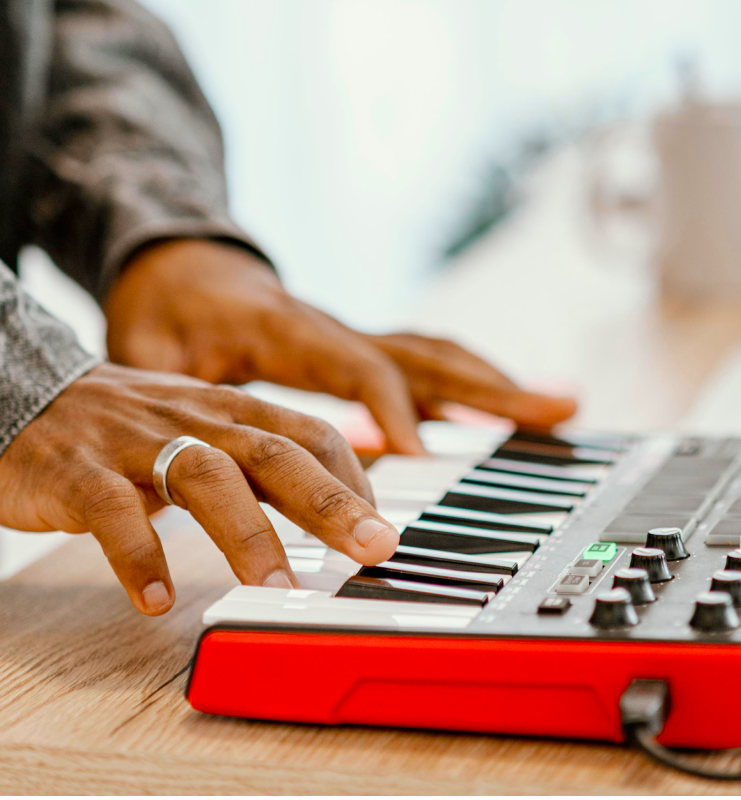
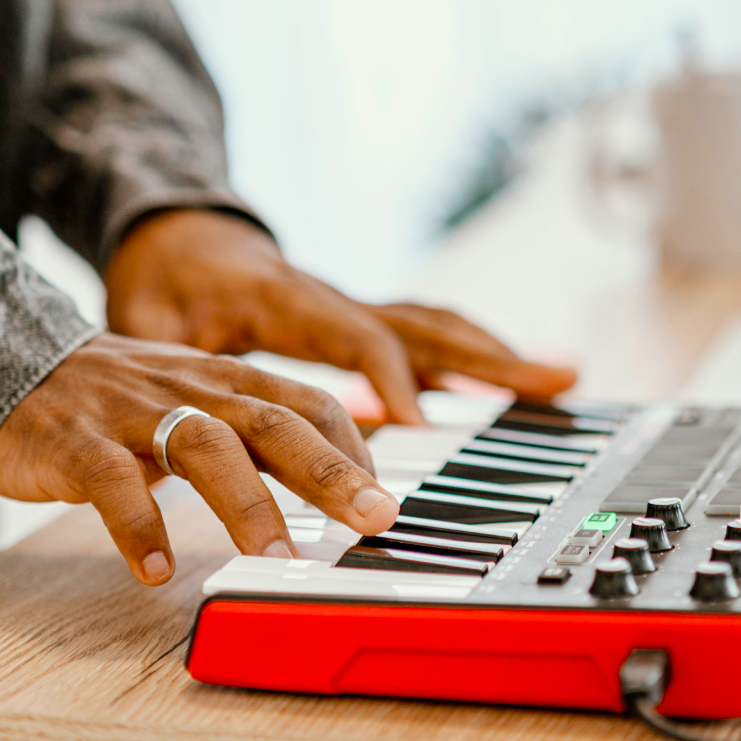
added a picture and fixed media border radius and sizes

diff --git a/src/pages/Home.css b/src/pages/Home.css
@@ -1,6 +1,6 @@
 .home {
   display: flex;
-  flex-wrap: wrap;
+  flex-direction: row;
   justify-content: space-between;
   margin: 60px 60px 100px 60px;
 }
@@ -14,7 +14,8 @@
 .home-p-and-buttons{ 
   display: flex;
   flex-direction: column;
-  justify-content: flex-start;
+  justify-content: center;
+  align-items: flex-start;
   width: 50%;
 }
 
@@ -22,12 +23,16 @@
   display: flex;
   justify-content: center;
   align-items: center;
+  width: 50%;
+  max-height: 90%;
 }
 
 .home-image {
-  width: 30%;
-  object-fit: contain;
-  border-radius: 5px;
+  display: flex;
+  width: 50%;
+  object-fit: fill;
+  border-radius: 10px;
+  box-shadow: 0px 0px 10px 1px #d9d9d9;
 }
 
 .home-buttons {
@@ -83,7 +88,12 @@
     margin: 20px;
   }
   .home-p-and-buttons{ 
-    width: 75%;
+    width: 100%;
+  }
+
+  .home-image-container { 
+    display: none;
+
   }
 }
 

diff --git a/src/projects/MazeGeneratorAndSolver.js b/src/projects/MazeGeneratorAndSolver.js
@@ -40,7 +40,7 @@ function MazeGeneratorAndSolver({isDarkMode}) {
     <section id="MazeGeneratorAndSolver" className="project">
       <div className="project-container right-to-left">
         <div className='project-media-container-left-to-right'>
-          <img src={MazeGift} alt='maze' className='project-media'></img>
+          <img src={MazeGift} alt='maze' className='project-media square'></img>
         </div>
         <div className='project-text'>
           <h1 className='project-title blinking-cursor '>The Maze <span className='green-text'>{currentText}</span></h1>

diff --git a/src/projects/SynthesizerApp.js b/src/projects/SynthesizerApp.js
@@ -9,7 +9,7 @@ function SynthesizerApp({isDarkMode}) {
     <section id="projects" className="project ">
       <div className="project-container left-to-right">
         <div className='project-media-container-right-to-left'>
-          <img src={SynthesizerImage} alt='maze' className='project-media'></img>
+          <img src={SynthesizerImage} alt='maze' className='project-media square'></img>
         </div>
         <div className='project-text'>
             <h1 className='project-title'>The Synthesizer_</h1>

diff --git a/src/projects/Project.css b/src/projects/Project.css
@@ -77,14 +77,17 @@
 }
 
 .project-media {
-    height: 90%;
     max-width: 500px;
     max-height: 500px;
-    border-radius: 8px;
     aspect-ratio: 1/1;
-    /* keep original aspect ratio */
     object-fit: contain;
 }
+
+.square {
+    height: 80%;
+    border-radius: 20px;
+}
+
 
 .project-bullet {
     margin-bottom: 20px;
@@ -116,7 +119,7 @@
 
 
 .green-text{
-    color: hsl(147, 64%, 45%);
+    color: #29bc6b;
 }
   
 

diff --git a/src/pages/Home.js b/src/pages/Home.js
@@ -26,9 +26,9 @@ function Home({isDarkMode}) {
         <div>
           
         </div>
-        {/* <div className="home-image-container">
-          <img src={IdoImg} alt="Ido Shenbach" className='home-image'></img>
-        </div> */}
+        <div className="home-image-container">
+          <img src='./ido.jpg' alt="Ido Shenbach" className='home-image'></img>
+        </div>
     </section>
   );
 }

diff --git a/src/layouts/Header/Header.css b/src/layouts/Header/Header.css
@@ -32,14 +32,6 @@ header {
   line-height: 21.6px;
 }
 
-.header-job-container.light-mode {
-  color: #5a6072;
-}
-
-.header-job-container.dark-mode {
-  color: #F3F3F3;
-}
-
 .header-navigation-container {
   justify-self: end;
   font-weight: 400;
